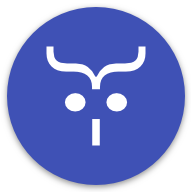
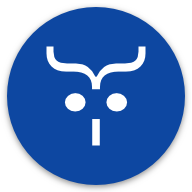
Updated looks and added next and back buttons to file preview

diff --git a/client/src/app/components/explorers/explorer/explorer.component.ts b/client/src/app/components/explorers/explorer/explorer.component.ts
@@ -140,12 +140,20 @@ export class ExplorerComponent implements OnInit {
             this.fileService.getShareToken(this.permissions, this.basePath, file.path).subscribe(data => {
                 // tslint:disable-next-line:max-line-length
                 const url = this.sanitizer.bypassSecurityTrustResourceUrl(`${environment.apiEndPoint}/secured/share/${encodeURIComponent(this.basePath)}/${encodeURIComponent(file.path)}?JWT=${data.token}&inline=true`);
-                this.dialog.open(OpenComponent, {
+                const dialogRef = this.dialog.open(OpenComponent, {
                     data: {
                         url: url,
                         file: file,
                         fileType: fileType,
                         editMode: false
+                    }
+                });
+                dialogRef.afterClosed().subscribe(offset => {
+                    if (offset && typeof (offset.value) === 'number') {
+                        const nextFile = this.files[this.files.indexOf(file) + offset.value];
+                        if (nextFile) {
+                            this.open(nextFile, false);
+                        }
                     }
                 });
             });

diff --git a/client/src/app/app.component.html b/client/src/app/app.component.html
@@ -10,12 +10,12 @@
         <span class="flex-spacer"></span>
         <span class="version"><span class="flex-spacer"></span>v2.0.7c</span>
     </mat-sidenav>
-    <mat-toolbar color="primary" class="mat-elevation-z6">
+    <mat-toolbar class="main-toolbar mat-elevation-z6">
         <button mat-icon-button (click)="menu.open()" *appShowToRoles="['*']">
             <mat-icon>menu</mat-icon>
-        </button>{{ title }}
+        </button>
         <span class="flex-spacer"></span>
-        <img alt="Home" height="40" src="assets/ninicobox_logo.svg" title="Home">
+        <img height="40" src="assets/ninicobox_logo.svg" class="main-logo">{{title}}
         <span class="flex-spacer"></span>
         <button mat-icon-button routerLink="/login" (click)="logout(); menu.close();" *appShowToRoles="['*']">
             <mat-icon>exit_to_app</mat-icon>

diff --git a/client/src/theme.scss b/client/src/theme.scss
@@ -1,13 +1,13 @@
 @import '~@angular/material/theming';
 
 @include mat-core();
-$app-primary: mat-palette($mat-indigo);
+$app-primary: mat-palette($mat-blue, 900, 800, A700);
 $app-accent: mat-palette($mat-amber);
 $app-theme: mat-light-theme($app-primary, $app-accent);
 @include angular-material-theme($app-theme);
 
 // Define an alternate dark theme.
-$dark-primary: mat-palette($mat-indigo);
+$dark-primary: $app-primary;
 $dark-accent:  mat-palette($mat-amber, A200, A100, A400);
 $dark-warn:    mat-palette($mat-deep-orange);
 $dark-theme:   mat-dark-theme($dark-primary, $dark-accent, $dark-warn);

diff --git a/client/src/app/components/explorers/explorer/open/open.component.html b/client/src/app/components/explorers/explorer/open/open.component.html
@@ -13,6 +13,8 @@
     </mat-form-field>
     <div class="buttons">
         <button mat-raised-button (click)="dialogRef.close()">Close dialog</button>
+        <button mat-mini-fab color="primary" (click)="dialogRef.close({value: -1})"><mat-icon>navigate_before</mat-icon></button>
+        <button mat-mini-fab color="primary" (click)="dialogRef.close({value: 1})"><mat-icon>navigate_next</mat-icon></button>
     </div>
 </div>
 

diff --git a/client/src/app/app.component.css b/client/src/app/app.component.css
@@ -5,6 +5,15 @@
     align-items: center;
 }
 
+.main-toolbar {
+    background: #303030;
+    color: white;
+}
+
+.main-logo {
+    margin-right: 5px;
+}
+
 .flex-spacer {
     flex: 1 1 auto;
 }
@@ -26,5 +35,10 @@ mat-sidenav {
 }
 
 .active-link {
-    background: #3f51b5 !important;
+    background: #0d47a1 !important;
+    color: white;
+}
+
+.mat-drawer-container {
+    background: transparent;
 }

diff --git a/client/src/index.html b/client/src/index.html
@@ -11,7 +11,7 @@
   <link href="https://fonts.googleapis.com/icon?family=Material+Icons" rel="stylesheet">
 </head>
 
-<body>
+<body background="assets/glencoe.jpg">
   <app-root></app-root>
 </body>
 
